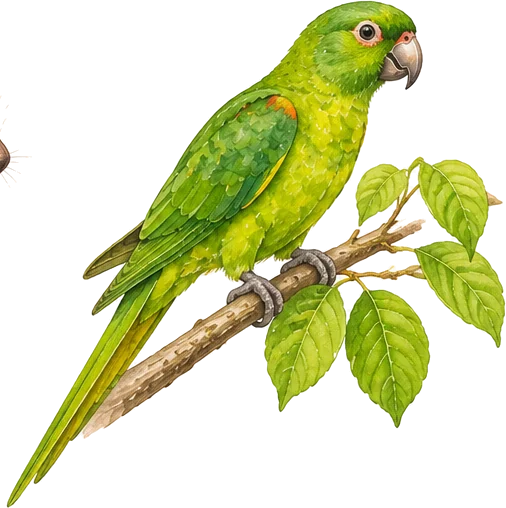
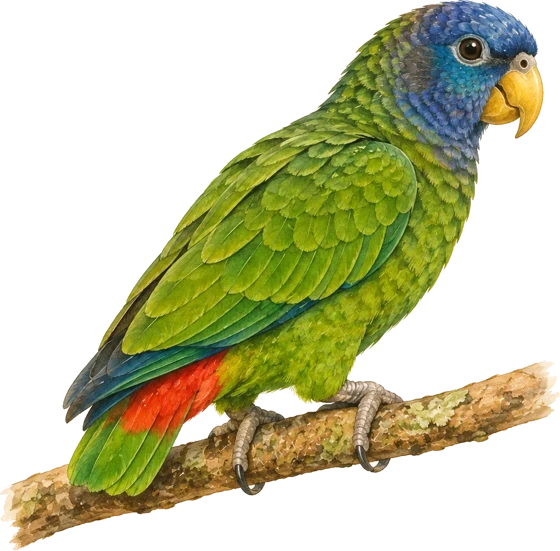
Pares do Cardápio: maritaca e pequi
Claude-Session: https://claude.ai/code/session_01LYxHg282NfabY8tFXabtkR

diff --git a/pares-do-cardapio/index.html b/pares-do-cardapio/index.html
@@ -224,9 +224,9 @@ const MEM={titulo:'Pares do Cardápio',cor:'#e65100',corEsc:'#bf360c',fundo:'cam
  resumo:'Os bichos do Pantanal estão com fome e a comida de cada um está escondida no capim. Quem balança está pedindo: espie as touceiras, lembre o que tem em cada uma e leve o alimento certo.',
  como:[['Espie','Toque numa touceira para ver o que está escondido.'],['Pedido','O bicho que balança é quem está com fome agora.'],['Lembre','Errou? A touceira fecha e você perde 2 segundos.'],['Pares','Cada bicho come duas porções.']],
  dicas:['Espie com calma e guarde onde está cada alimento.','Nem todo bicho come carne: o lobo-guará come muita fruta.','Com seis bichos, organize a memória por região do campo.'],
- dicaErro:'Onça caça capivara, lobo-guará come lobeira, tamanduá come formigas e cupins, tuiuiú pesca, gavião-caramujeiro come aruá, cutia rói castanha, arara-azul quebra o coco do acuri.',
- alvos:{'Onça-pintada':{img:'onca'},'Lobo-guará':{img:'lobo'},'Tamanduá-bandeira':{img:'tamandua'},'Tuiuiú':{img:'tuiuiu'},'Gavião-caramujeiro':{img:'gaviao'},'Cutia':{img:'cutia'},'Arara-azul':{img:'arara'}},
- itens:{'Capivara':['capivara',86,'Onça-pintada'],'Lobeira':['lobeira',60,'Lobo-guará'],'Formigas':['formiga',56,'Tamanduá-bandeira'],'Cupinzeiro':['cupinzeiro',72,'Tamanduá-bandeira'],'Castanha-do-pará':['castanha',62,'Cutia'],'Cacho de acuri':['acuri',66,'Arara-azul'],'Lambari':['lambari',64,'Tuiuiú'],'Aruá':['arua',50,'Gavião-caramujeiro']},
+ dicaErro:'Onça caça capivara, lobo-guará come lobeira, tamanduá come formigas e cupins, tuiuiú pesca, gavião-caramujeiro come aruá, cutia rói castanha, arara-azul quebra o coco do acuri, maritaca come pequi.',
+ alvos:{'Onça-pintada':{img:'onca'},'Lobo-guará':{img:'lobo'},'Tamanduá-bandeira':{img:'tamandua'},'Tuiuiú':{img:'tuiuiu'},'Gavião-caramujeiro':{img:'gaviao'},'Cutia':{img:'cutia'},'Arara-azul':{img:'arara'},'Maritaca':{img:'maritaca'}},
+ itens:{'Capivara':['capivara',86,'Onça-pintada'],'Lobeira':['lobeira',60,'Lobo-guará'],'Formigas':['formiga',56,'Tamanduá-bandeira'],'Cupinzeiro':['cupinzeiro',72,'Tamanduá-bandeira'],'Castanha-do-pará':['castanha',62,'Cutia'],'Cacho de acuri':['acuri',66,'Arara-azul'],'Pequi':['pequi',62,'Maritaca'],'Lambari':['lambari',64,'Tuiuiú'],'Aruá':['arua',50,'Gavião-caramujeiro']},
  pares:np=>Object.keys(MEM.alvos).sort(()=>Math.random()-.5).slice(0,np),
  alvo:(k,id,x,y,at,t)=>{const im=QM.img['alvo:'+id];const h=QK_h()*.8,b=at?Math.abs(Math.sin(t*5))*5:0;if(at){k.save();k.fillStyle='rgba(255,255,255,.7)';k.beginPath();k.ellipse(x,y-h*.45,h*.75,h*.6,0,0,7);k.fill();k.restore();}
   if(im){const w=Math.min(h*im.width/im.height,QK_h()*1.25),hh=w*im.height/im.width;k.save();k.shadowColor='rgba(255,255,255,.95)';k.shadowBlur=8;k.drawImage(im,x-w/2,y-hh-b,w,hh);k.restore();}
@@ -288,7 +288,7 @@ function final(tudo){
  $('tela').innerHTML=`<div class="card" style="text-align:center"><h2>${tudo?'Memória afiada!':'Fim de jogo'}</h2><div class="big">${S.tot} pts</div>
  <div class="savebox"><input id="pName" maxlength="20" placeholder="Seu nome"><button class="btn" id="bS">Salvar no ranking</button></div><p class="small" id="sSt"></p>
  <div class="row" style="justify-content:center;margin-top:12px"><button class="btn ghost" onclick="inicio()">Jogar de novo</button></div>
- <div class="small" style="margin-top:12px;text-align:left">Fontes: Schaller e Vasconcelos (1978, Zeitschrift für Säugetierkunde 43:296-301), onça e capivara; Revista Sapiência UEG, dieta do tamanduá-bandeira e do lobo-guará; Olhar Digital (2026), lobeira na dieta do lobo-guará; Animal Diversity Web, Jabiru mycteria; Sykes, Rodgers e Bennetts (1995, The Birds of North America 171), gavião-caramujeiro; Embrapa Acre, cutias como principais dispersoras da castanha-do-brasil; Instituto Arara Azul, acuri e bocaiuva na dieta da arara-azul. Ilustrações naturalistas geradas pelo autor. Tempos, metas, penalidade de tempo e sorteios são regras do jogo.</div></div>`;
+ <div class="small" style="margin-top:12px;text-align:left">Fontes: Schaller e Vasconcelos (1978, Zeitschrift für Säugetierkunde 43:296-301), onça e capivara; Revista Sapiência UEG, dieta do tamanduá-bandeira e do lobo-guará; Olhar Digital (2026), lobeira na dieta do lobo-guará; Animal Diversity Web, Jabiru mycteria; Sykes, Rodgers e Bennetts (1995, The Birds of North America 171), gavião-caramujeiro; Embrapa Acre, cutias como principais dispersoras da castanha-do-brasil; Instituto Arara Azul, acuri e bocaiuva na dieta da arara-azul; Revista Brasileira de Biociências (2007), maritacas e pequi. Ilustrações naturalistas geradas pelo autor. Tempos, metas, penalidade de tempo e sorteios são regras do jogo.</div></div>`;
  $('bS').onclick=()=>salvar(nivel);
 }
 const firebaseConfig={apiKey:"AIzaSyCbXi3UCVl8oLleBzGb6DqWSxbZmZU2yDQ",authDomain:"jogos-ranking.firebaseapp.com",projectId:"jogos-ranking",storageBucket:"jogos-ranking.firebasestorage.app",messagingSenderId:"958784915420",appId:"1:958784915420:web:4212d3ad278f02d600f119"};
